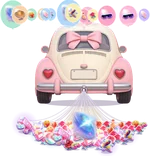
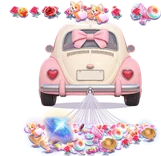
Gift car: gifts float on their strings without a balloon shell; previews regenerated

diff --git a/packages/overlay/public/dragcar.html b/packages/overlay/public/dragcar.html
@@ -207,16 +207,12 @@
         if (b.born > 0) { const k = Math.min(1, (now - b.born) / 900), e = Juice.easeOutBack ? Juice.easeOutBack(k) : k; x = b.sx + (x - b.sx) * e; y = b.sy + (y - b.sy) * Math.min(1, k * 1.1); if (k >= 1 && !b.landed) { b.landed = true; fx.sparkle(x, y, 6, '#fff6e8'); } }
         const R = Math.max(26, Math.min(58, b.r * 1.35)), col = BAL_COLORS[b.bi % BAL_COLORS.length];
         ctx.save(); ctx.globalAlpha = Math.max(0, b.life);
-        const ex = x, ey = y + R * 1.12, dx = ex - p.ax, dy = ey - ay, wind = Math.sin(t * 0.45) * 26 + Math.sin(t * 1.7 + b.bi) * 9;
+        const ex = x, ey = y + R * 0.8, dx = ex - p.ax, dy = ey - ay, wind = Math.sin(t * 0.45) * 26 + Math.sin(t * 1.7 + b.bi) * 9;
         ctx.beginPath(); ctx.moveTo(p.ax, ay); // เชือกหย่อน ๆ เป็นรูปตัว S เอนตามลม
         ctx.bezierCurveTo(p.ax + dx * 0.15 - wind, ay + dy * 0.35 + 10, p.ax + dx * 0.75 + wind * 0.8, ay + dy * 0.7 + 6, ex, ey);
         ctx.lineWidth = 1.6; ctx.strokeStyle = 'rgba(255,255,255,.9)'; ctx.stroke();
-        const gr = ctx.createRadialGradient(x - R * .35, y - R * .45, R * .1, x, y, R * 1.1); gr.addColorStop(0, '#ffffff'); gr.addColorStop(.35, col); gr.addColorStop(1, col);
-        ctx.beginPath(); ctx.ellipse(x, y, R * .92, R * 1.05, 0, 0, Math.PI * 2); ctx.fillStyle = gr; ctx.globalAlpha = Math.max(0, b.life) * .92; ctx.fill();
-        ctx.globalAlpha = Math.max(0, b.life); ctx.lineWidth = 2; ctx.strokeStyle = 'rgba(255,255,255,.7)'; ctx.stroke();
-        ctx.beginPath(); ctx.moveTo(x - 5, y + R * 1.12); ctx.lineTo(x + 5, y + R * 1.12); ctx.lineTo(x, y + R * 1.02); ctx.closePath(); ctx.fillStyle = col; ctx.fill(); // ปมลูกโป่ง
-        ctx.beginPath(); ctx.ellipse(x - R * .38, y - R * .45, R * .14, R * .24, -.5, 0, Math.PI * 2); ctx.fillStyle = 'rgba(255,255,255,.75)'; ctx.fill(); // แสงสะท้อน
-        ctx.translate(x, y); ctx.rotate(Math.sin(t * 1.5 + b.bi) * .1); drawGift(b.img, b.g.e, R * 1.15); ctx.restore();
+        // ของขวัญลอยเองเหมือนลูกโป่ง (ไม่มีลูกโป่งครอบ) ผูกเชือกที่ใต้ของขวัญ
+        ctx.translate(x, y); ctx.rotate(Math.sin(t * 1.5 + b.bi) * .1); drawGift(b.img, b.g.e, R * 1.9); ctx.restore();
       }
       // ปมผูกบนหลังคา
       if (BAL_ON && gifts.some((b) => b.balloon)) { const a = balAnchor(); ctx.beginPath(); ctx.arc(a.x, a.y - bob, 4, 0, Math.PI * 2); ctx.fillStyle = '#fff'; ctx.fill(); ctx.lineWidth = 1.5; ctx.strokeStyle = 'rgba(120,90,160,.6)'; ctx.stroke(); }
